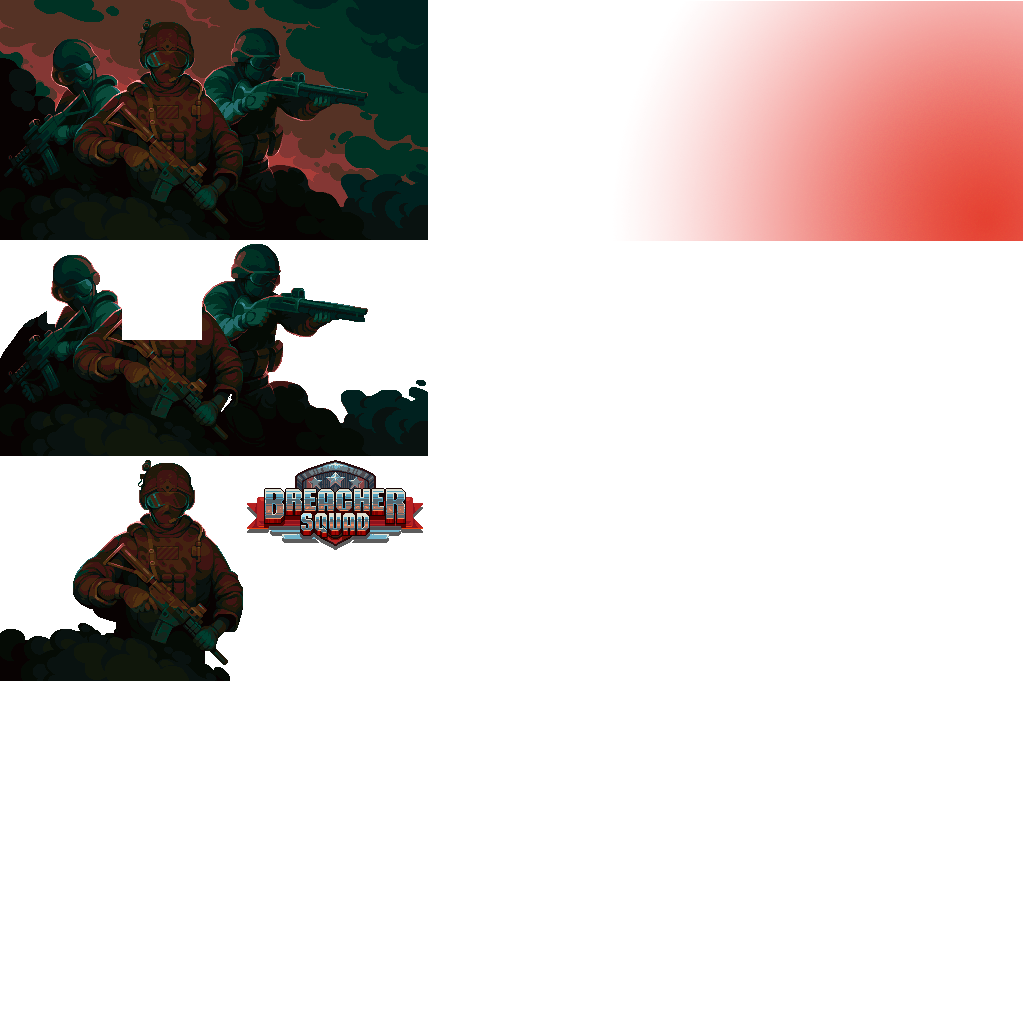
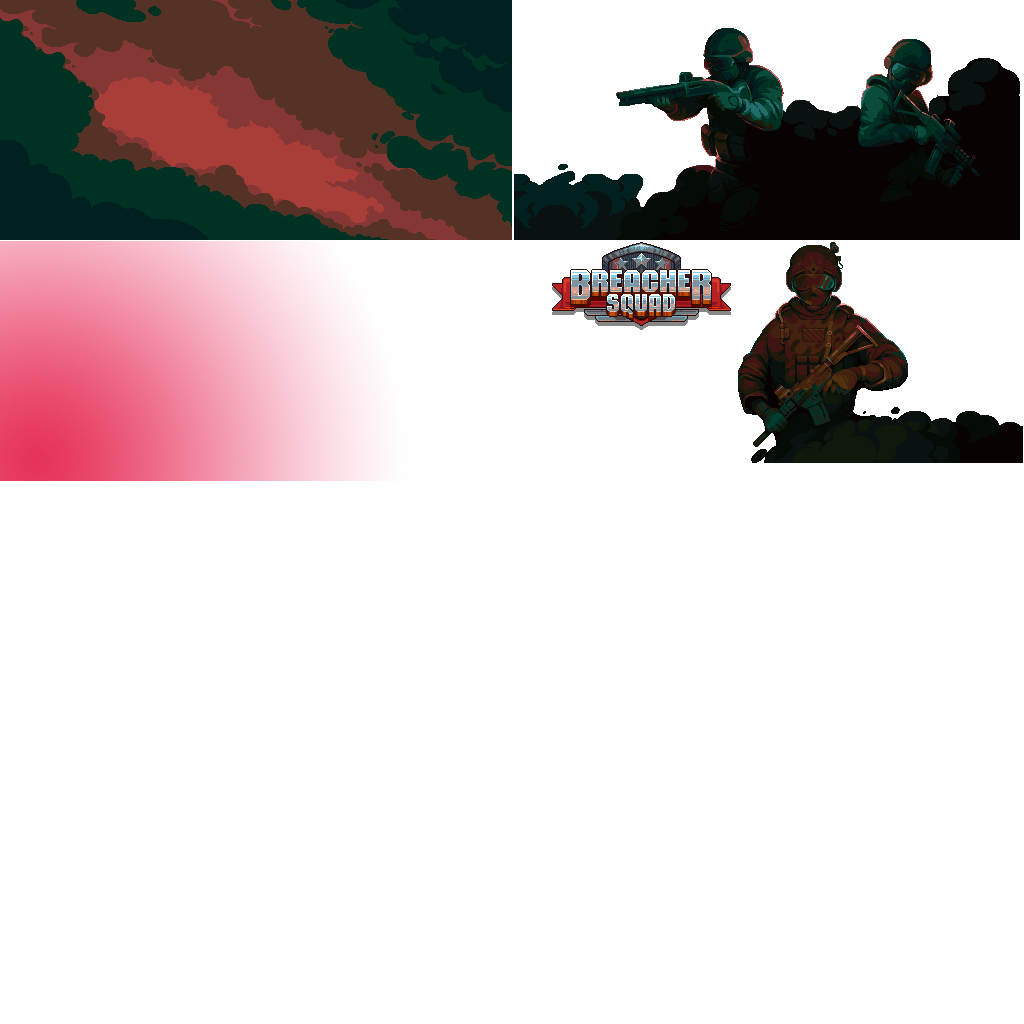
animated main menu

diff --git a/BreacherSquad/Source/Engine/MainMenu.cpp b/BreacherSquad/Source/Engine/MainMenu.cpp
@@ -1854,8 +1854,8 @@ void CMainMenu::Paint()
 			m_pDevice->SetSamplerState(0, D3DSAMP_MINFILTER, D3DTEXF_POINT);
 			m_pDevice->SetSamplerState(0, D3DSAMP_MAGFILTER, D3DTEXF_POINT);
 
-			//paint logo
-			CSprite::paintFrame(&m_sprColNew, (int)scrrect.x, (int)scrrect.Bottom(), ANM_MENUS0_SPR_LOGO_MM, 0);
+			///paint logo
+			//CSprite::paintFrame(&m_sprColNew, (int)scrrect.x, (int)scrrect.y, ANM_MENUS0_SPR_LOGO_MM, 0);
 		}
 		break;
 
@@ -2525,11 +2525,13 @@ void CMainMenu::Paint()
 void CMainMenu::PaintBackground(RECTXYWH_F worldRect, DWORD dwColor, bool bPaintParticles /*= false*/)
 {
 	//background
-	CSprite::paintFrame(&m_sprColNew, (int)worldRect.x, (int)worldRect.y, ANM_MENUS0_SPR_BACKGROUND, 0, dwColor);
+	CSprite::paintFrame(&m_sprColNew, worldRect.Right() - 10.0f * sin(fLocalTimeline * 0.15f), (int)worldRect.y, ANM_MENUS0_SPR_BACKGROUND, 0, dwColor);
+	//paint logo
+	CSprite::paintFrame(&m_sprColNew, (int)worldRect.x, (int)worldRect.y, ANM_MENUS0_SPR_LOGO_MM, 0);
 	// chars back layer
-	CSprite::paintFrame(&m_sprColNew, (int)worldRect.x, (int)worldRect.y, ANM_MENUS0_SPR_BACKGROUND, 1, dwColor);
+	CSprite::paintFrame(&m_sprColNew, (worldRect.Right() + 8.0f * sin(fLocalTimeline * 0.15f)), (int)worldRect.y, ANM_MENUS0_SPR_BACKGROUND, 1, dwColor);
 	// chars front layer
-	CSprite::paintFrame(&m_sprColNew, (int)worldRect.x, (int)worldRect.y, ANM_MENUS0_SPR_BACKGROUND, 2, dwColor);
+	CSprite::paintFrame(&m_sprColNew, (worldRect.Right() + 20.0f * sin(fLocalTimeline * 0.15f)), (int)worldRect.y, ANM_MENUS0_SPR_BACKGROUND, 2, dwColor);
 	//particles
 	/*
 	if (bPaintParticles)
@@ -2549,9 +2551,9 @@ void CMainMenu::PaintBackground(RECTXYWH_F worldRect, DWORD dwColor, bool bPaint
 	*/
 	//paint character flickering orange light
 	AdditiveBlendingON(m_pDevice, m_pSprite);
-	float alpha = 0.2f + PerlinNoise1D(fLocalTimeline, 5.0f, 2.0f, 0.4f, 0.5f, 2);
+	float alpha = 0.1f + PerlinNoise1D(fLocalTimeline, 5.0f, 2.0f, 0.4f, 0.3f, 2);
 	//paint flickering right glow
-	CSprite::paintFrame(&m_sprColNew, (int)worldRect.x, (int)worldRect.y, ANM_MENUS0_SPR_BACKGROUND, 3, D3DCOLOR_COLORALPHA(dwColor, alpha));
+	CSprite::paintFrame(&m_sprColNew, (int)worldRect.Right(), (int)worldRect.y, ANM_MENUS0_SPR_BACKGROUND, 3, D3DCOLOR_COLORALPHA(dwColor, alpha));
 	AdditiveBlendingOFF(m_pDevice, m_pSprite);
 }
 

diff --git a/BreacherSquad/Source/Engine/AppGlobals.cpp b/BreacherSquad/Source/Engine/AppGlobals.cpp
@@ -1088,7 +1088,6 @@ HRESULT App_LocaLoadFonts(bool bUseTTFonts)
 {
 	//release all
 	UTGetFontsManager().Release();
-	UTGetTTFManager().Release();
 
 	HRESULT hr = S_OK;
 
